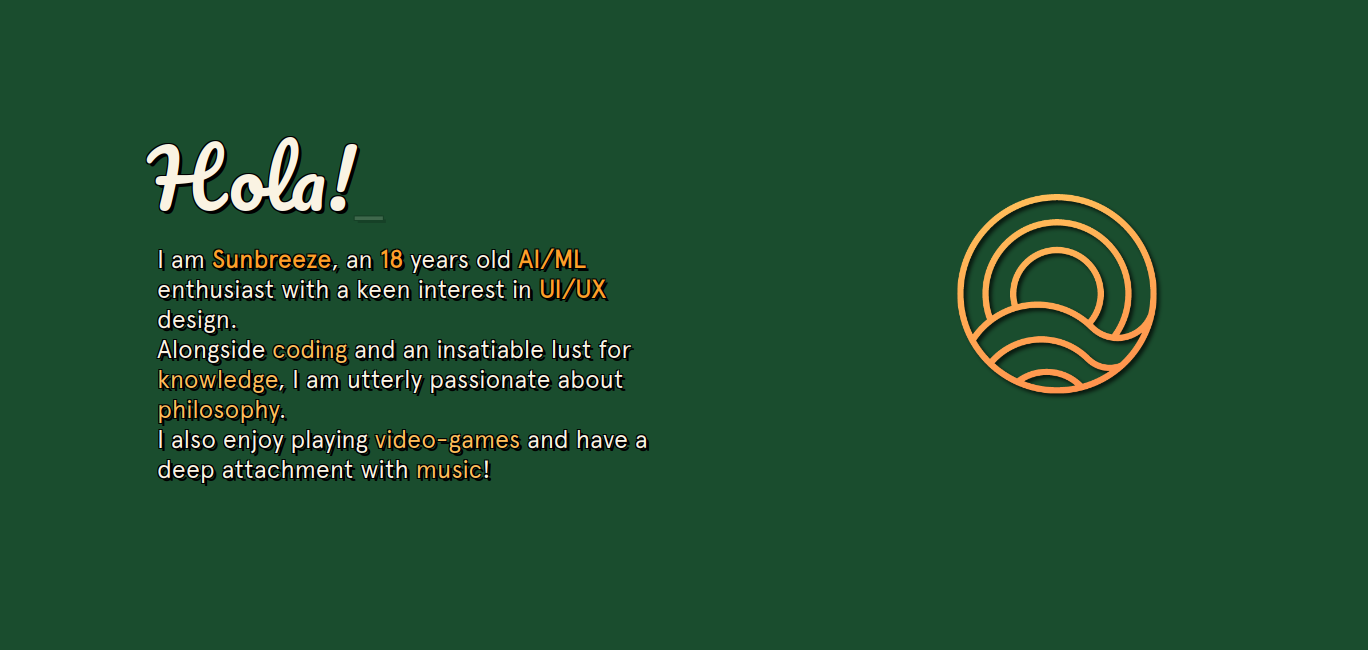
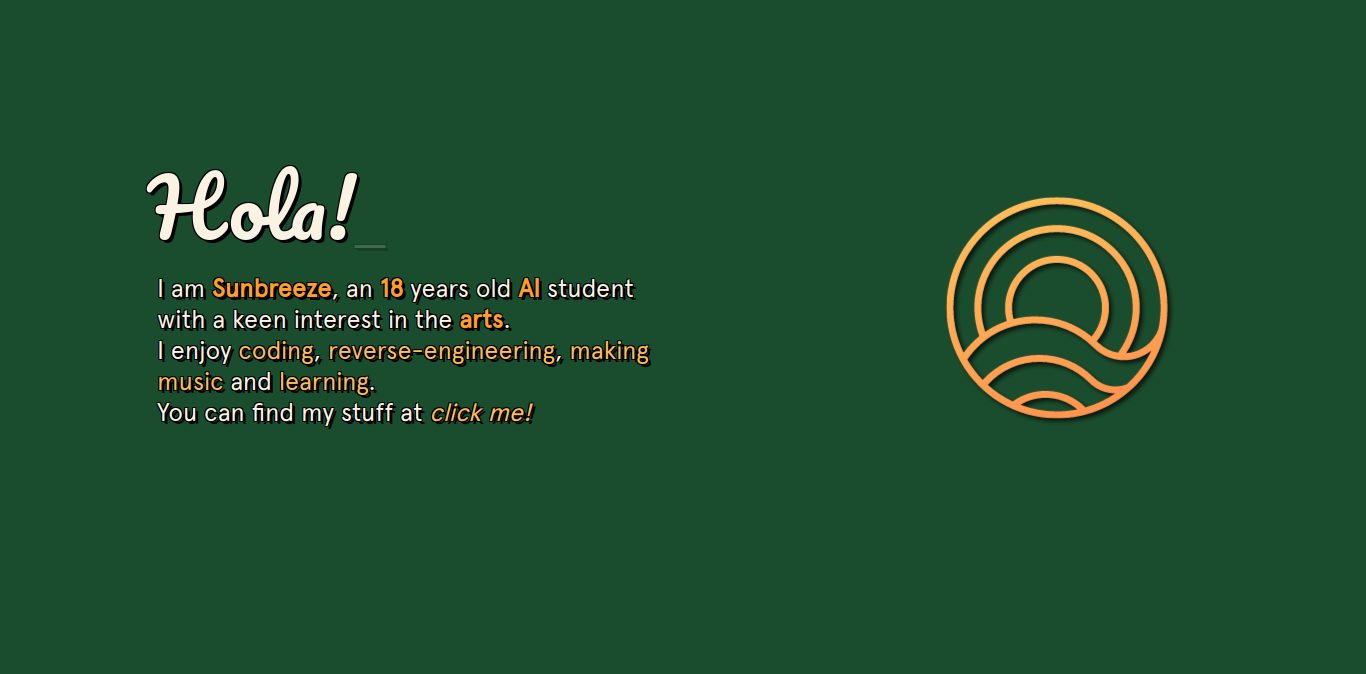
updated site

Changed region(s): [[0.0922, 0.2154, 0.4919, 0.7385], [0.6764, 0.2769, 0.8609, 0.6462]]

diff --git a/index.html b/index.html
@@ -19,18 +19,13 @@
     <title>Sunbreeze</title>
   </head>
   <body>
-    <div id="preloader"></div>
-    <div id="body-div">
       <div id="greetings-div">
         <span id="greetings-span"></span>
       </div>
       <div id="intro-div">
         I am <strong>Sunbreeze</strong>, an <strong>18</strong> years old
-        <strong>AI/ML</strong> enthusiast with a keen interest in
-        <strong>UI/UX</strong> design.<br />Alongside <u>coding</u>, <u>reverse-engineering</u> and an
-        insatiable lust for <u>knowledge</u>, I am utterly passionate about
-        <u>philosophy</u>.<br />I also enjoy playing <u>video-games</u> and have
-        a deep attachment with <u>music</u>!
+        <strong>AI</strong> student with a keen interest in the
+        <strong>arts</strong>.<br />I enjoy <u>coding</u>, <u>reverse-engineering</u>, <u>making music</u> and <u>learning</u>.<br />You can find my stuff at <a href="https://linktr.ee/feelsunbreeze" target="_blank"><i>click me!</i></a>
       <div id="photo-div"><img id="photo-img" src="/assets/logo.svg" class="shadow" alt="Sunbreeze" /></div>
     <script src="main.js"></script>
     <script src="https://cdn.jsdelivr.net/npm/typed.js@2.0.12"></script>
@@ -57,7 +52,7 @@
       const load = document.querySelector("#photo-img")
       setTimeout(() => {
         load.style.animationPlayState = "paused"
-      }, 3000)
+      }, 1000)
     </script>
     <!-- 🥚 -->
   </body>

diff --git a/style.css b/style.css
@@ -16,22 +16,8 @@ body {
     -1px 1px 0 #000, 1px 1px 0 #000;
 }
 @media only screen and (min-width: 501px) {
-  #preloader {
-    background: #1a4d2e url(assets/logo_animated_green.gif) no-repeat center;
-    background-size: 20%;
-    margin: -8px;
-    height: 100vh;
-    width: 100%;
-    position: fixed;
-    z-index: 100;
-  }
-  #body-div {
-    opacity: 0;
-    display: none;
-    transition: opacity 2s ease-in;
-  }
   #greetings-div {
-    margin-top: 110px;
+    margin-top: 150px;
   }
   #greetings-span {
     color: #faf3e3;
@@ -57,6 +43,7 @@ body {
   #photo-img {
     width: 200px;
     margin-left: 800px;
+    margin-top: 70px;
     animation: heartBeat;
     animation-duration: 2s;
     animation-iteration-count: infinite;
@@ -77,4 +64,14 @@ u {
 .shadow {
   -webkit-filter: drop-shadow(3px 3px 2px rgba(0, 0, 0, 0.7));
   filter: drop-shadow(3px 3px 2px rgba(0, 0, 0, 0.7));
+}
+a {
+  text-decoration: none;
+}
+a:link{
+  color: #ff9f29;
+}
+a:visited{
+  color: #ffbd59;
+  text-decoration: underline;
 }

diff --git a/style_mobile.css b/style_mobile.css
@@ -3,18 +3,8 @@
   src: url(fonts/Pacifico-Regular.ttf);
 }
 @media only screen and (max-width: 500px) {
-  #preloader {
-    background: #1a4d2e url(assets/logo_animated_green.gif) no-repeat center;
-    background-size: 50%;
-    margin-top: -200px;
-    margin-left: -3px;
-    height: 100vh;
-    width: 100%;
-    position: fixed;
-    z-index: 100;
-  }
   #greetings-div {
-    margin-top: 110px;
+    margin-top: 60px;
   }
   #greetings-span {
     color: #faf3e3;
@@ -36,8 +26,17 @@
     margin-top: 10px;
   }
   #photo-img {
-    width: 0px;
     display: none;
     opacity: 0;
   }
+}
+a {
+  text-decoration: none;
+}
+a:link{
+  color: #ff9f29;
+}
+a:visited{
+  color: #ffbd59;
+  text-decoration: underline;
 }
